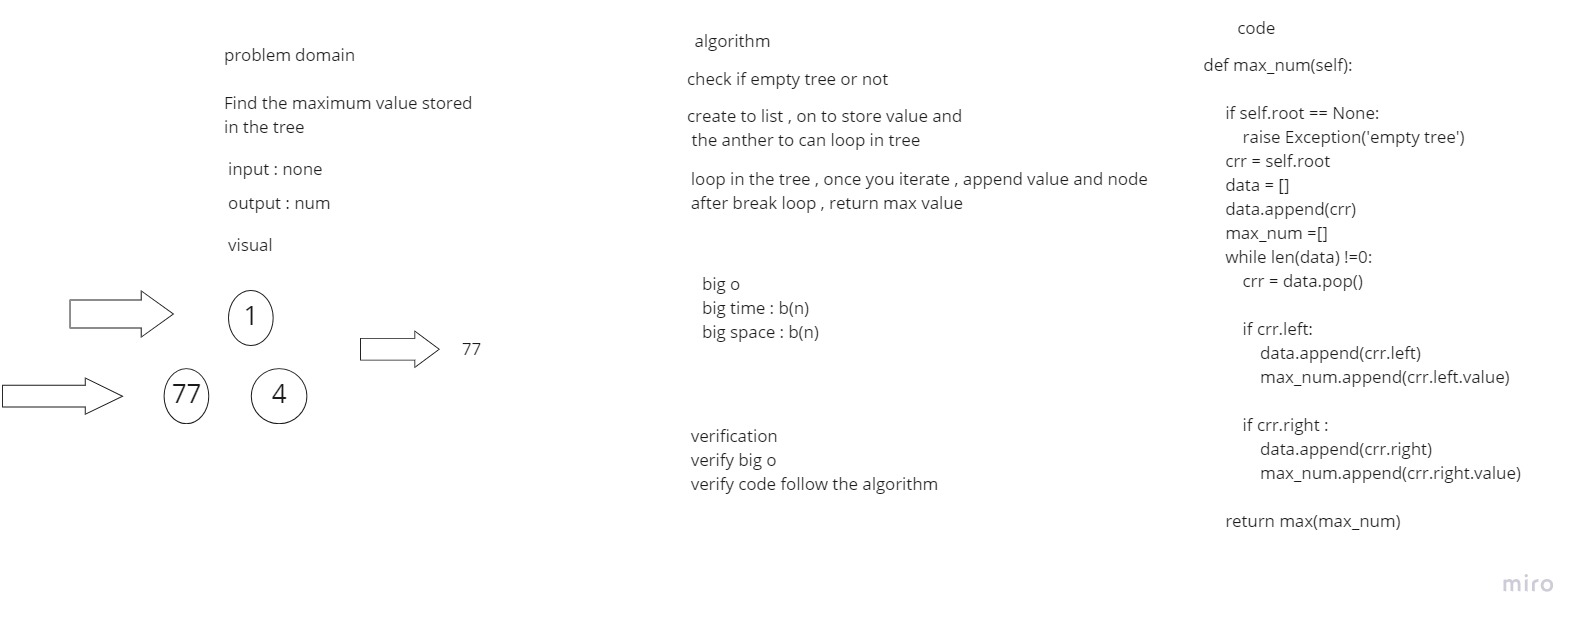
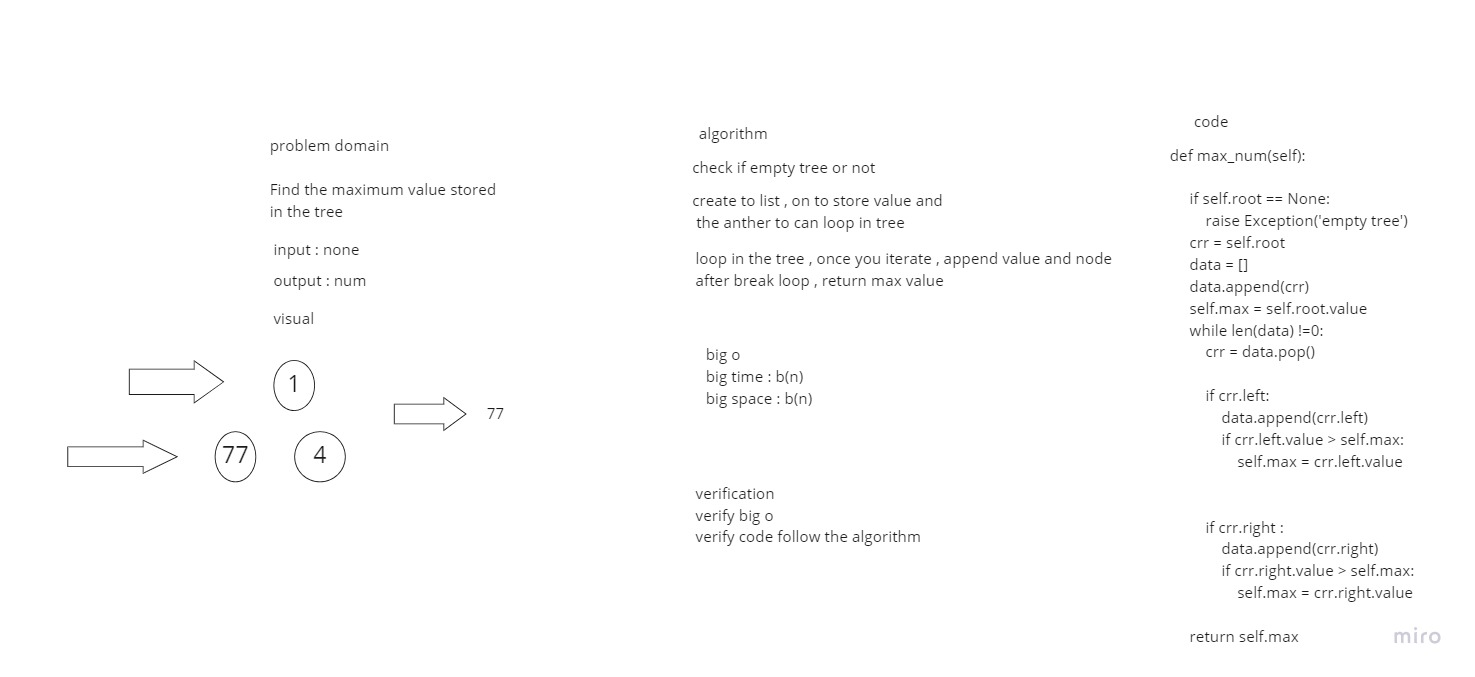
code 16 update

diff --git a/python/tree-max/tree_max/tree_max.py b/python/tree-max/tree_max/tree_max.py
@@ -31,19 +31,22 @@ class BinaryTree:
         crr = self.root
         data = []
         data.append(crr)
-        max_num =[]
+        self.max = self.root.value
         while len(data) !=0:
             crr = data.pop()
 
             if crr.left:
                 data.append(crr.left)
-                max_num.append(crr.left.value)
+                if crr.left.value > self.max:
+                    self.max = crr.left.value
+
 
             if crr.right :
                 data.append(crr.right)
-                max_num.append(crr.right.value)
+                if crr.right.value > self.max:
+                    self.max = crr.right.value
 
-        return max(max_num)
+        return self.max
 
 
 
@@ -51,8 +54,8 @@ class BinaryTree:
 if __name__ == '__main__':
     print('good')
     x = BinaryTree()
-    x.insert(111)
-    x.insert(666)
-    x.insert(10000)
+    x.insert(1111111111111)
+    x.insert(444444444444444)
+    x.insert(4233333333333333)
     print(x.max_num())
 
